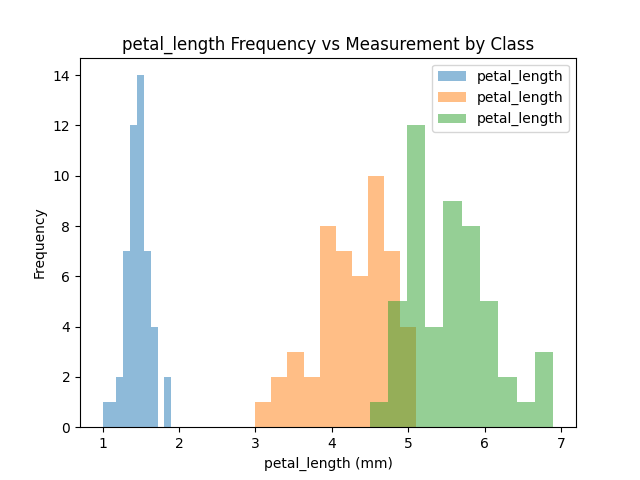
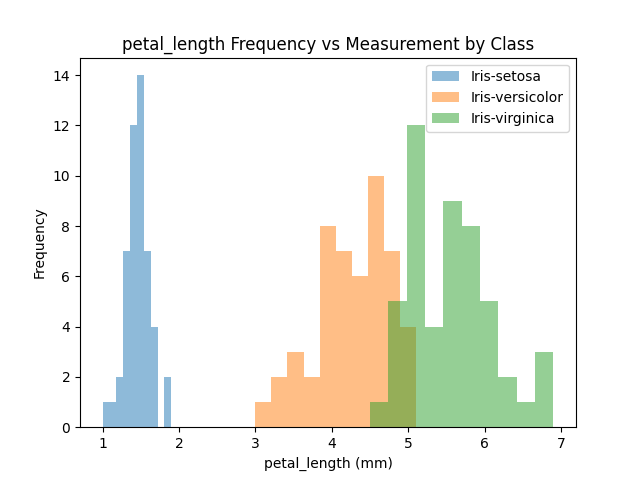
Added scatter plot detail and histogram analysis

Changed region(s): [[0.7188, 0.125, 0.875, 0.2812], [0.6562, 0.125, 0.6875, 0.2812]]

diff --git a/02.0_histograms.py b/02.0_histograms.py
@@ -18,7 +18,7 @@ grouped_stats = iris_df.groupby('class')
 for col in iris_df.columns[:-1]:
     for name, group in grouped_stats:
         group[col].plot(kind='hist', alpha=0.5)
-    plt.legend()
+    plt.legend(grouped_stats.groups.keys())
     plt.title(f'{col} Frequency vs Measurement by Class')
     plt.xlabel(f'{col} (mm)')
     plt.savefig(f'{col}_histogram.png')

diff --git a/README.md b/README.md
@@ -94,7 +94,7 @@ grouped_stats = iris_df.groupby('class')
 for col in iris_df.columns[:-1]:
     for name, group in grouped_stats:
         group[col].plot.hist(alpha=0.5)
-    plt.legend()
+    plt.legend(grouped_stats.groups.keys())
     plt.title(f'{col} Frequency vs Measurement by Class')
     plt.xlabel(col)
     plt.savefig(f'{col}_histogram.png')
@@ -133,7 +133,7 @@ The first step in the for loop contains another for loop. This takes each of the
 <br>
 
 ```python 
-    plt.legend()
+    plt.legend(grouped_stats.groups.keys())
     plt.title(f'{col} Frequency vs Measurement by Class')
     plt.xlabel(f'{col} (mm)')
     plt.savefig(f'{col}_histogram.png')
@@ -150,6 +150,11 @@ The lines are straightforward, with each column (minus the class column) of the 
 ![sepal_width_histogram.png](sepal_width_histogram.png)
 <br>
 **Analysis of the histograms**
+Petal length: 
+The petal lengths are spread out between 1 mm and just under 7 mm. While the sepal dimensions are somewhat normally dittributed across their given range, the petal dimensions seem to have no real centre. When looking at the species individually, setosa has much shorter petal dimensions than versicolor and virginica. For petal length, versicolor and virginica combined seem to make a relatively normal distribution of petal lengths, while setosa is normally ditributed. It would make sense that the each species is individually moving towards a normal distribution (although petal width and sepal width weaken this argument!), as with more data points the distribution would become more statistically significant and tend towards a smoother distribution in the histogram. 
+The petal width histogram shows data that is more evenly spread when viewed by speicies, rather than centering around a mean. Setosa is the outlier again, with all its measured petal widths being less than versicolor and virginica.  
+
+
 <br><br>
 ####Scatter plots of variables
 The scatter plots have been created using a combination of the modules matplotlib.py, pandas, and seaborn. Seaborn was used as it was the only way (that I could find) to colour the scatter points by class. This program uses the dataframe again, and a for loop to work through the petal variable pair and the sepal variable pair. The first draft included the plot creation without the for loop, but this was a overly long and seemed inefficient compared to the for loop. To ensure that only petal length vs. width an sepal length vs width were paired in the scatter plots (and not petal length vs sepal width etc), a list of tuples has been used to separate define the x and y values for the plot. 
@@ -162,8 +167,22 @@ import matplotlib.pyplot as plt
 import seaborn as sns
 
 iris_df = pd.read_csv('iris.data', names=['sepal_length', 'sepal_width', 'petal_length', 'petal_width', 'class'])
+''' 
+This is a bit clunky and inefficient - can a for loop be used? Probably with some heawrecking... 
+
+sns.scatterplot(data = iris_df, x =  'sepal_length', y =  'sepal_width', hue = 'class') -- https://www.geeksforgeeks.org/create-a-scatter-plot-using-sepal-length-and-petal_width-to-separate-the-species-classes-using-scikit-learn/
+plt.title('Sepal Length vs Sepal Width')
+plt.show()
+sns.scatterplot(data = iris_df, x = 'petal_length', y = 'petal_width', hue = 'class')
+plt.title('Petal Length vs Petal Width')
+plt.show()
+'''
+# Back to figuring out another for loop
 
 # Define x and y variables
+# lengths = ['sepal_length', 'petal_length']-- These did not work for providing with variables, as the for loop output petal length vs sepal width, and sepal length vs petal width in addition to petal l v w and sepal l v w. 
+# widths = ['sepal_width', 'petal_width'] -- can try a list of tuples
+
 dimensions = [('sepal_length', 'sepal_width'), ('petal_length', 'petal_width')]
 
 # Create scatterplots for all combinations of x and y variables
@@ -179,6 +198,53 @@ for length, width in dimensions:
 <br>
 
 **Program explained line by line:**
+```python 
+import pandas as pd
+import matplotlib.pyplot as plt
+import seaborn as sns
+```
+Importing te relevant modules needed to run the program. 
+<br>
 
+```python 
+iris_df = pd.read_csv('iris.data', names=['sepal_length', 'sepal_width', 'petal_length', 'petal_width', 'class'])
+```
+This line (as previously stated for the summary and histogram) reads in the iris.data csv file and assigns the names as each columns, separated by commas. 
+<br>
+
+```python 
+dimensions = [('sepal_length', 'sepal_width'), ('petal_length', 'petal_width')]
+```
+This line creates a list containing two tuples, one each for the sepal and petal dimensions. This is for the for loop used to plot the scatter plots in the next apr. The code contains comments with the thought process behind it. The first tuple item can be used as the x value, and the second tuple item can be assigned the y value for the scatter plots. 
+<br>
+
+```python
+for length, width in dimensions:
+    sns.scatterplot(data = iris_df, x = length, y = width, hue = 'class')
+```
+The for loop takes in the values from the dimensions list created previously. This allows the for loop to be used , instead of having to write out the plotting code for each pair of variables. 
+The first line within the for loop uses the seaborn module. [Using this module, Seaborn](https://www.realpythonproject.com/how-to-use-seaborn-for-data-visualization/) gives the most straightforward way of colouring  the plot points by class, thus making the output data more detailed. plotting the points by colour allows the dataset to be seen as a whole, as well as divided by the different species of iris. 
+<br>
+
+```python
+    plt.xlabel(f'{length} (cm)')
+    plt.ylabel(f'{width} (cm)')
+    plt.title(f'{length} vs {width}')
+    plt.legend()
+    plt.savefig(f'scatter_{length}_vs_{width}.png')
+    plt.show()
+```
+These lines use matplotlib.pyplot to format the output plot. Both plots have also been saved as png files so that they can be inserted here. 
+<br>
+
+**Output scater plots:**
+![scatter_petal_length_vs_petal_width.png](scatter_petal_length_vs_petal_width.png)
+![scatter_sepal_length_vs_sepal_width.png](scatter_sepal_length_vs_sepal_width.png)
 
 ####Other analyses
+
+
+
+
+####Conclusion
+The main purpose of completing this project has been to learn and build on what has been shown throughout the course, and to put the course learnings into practice. 
